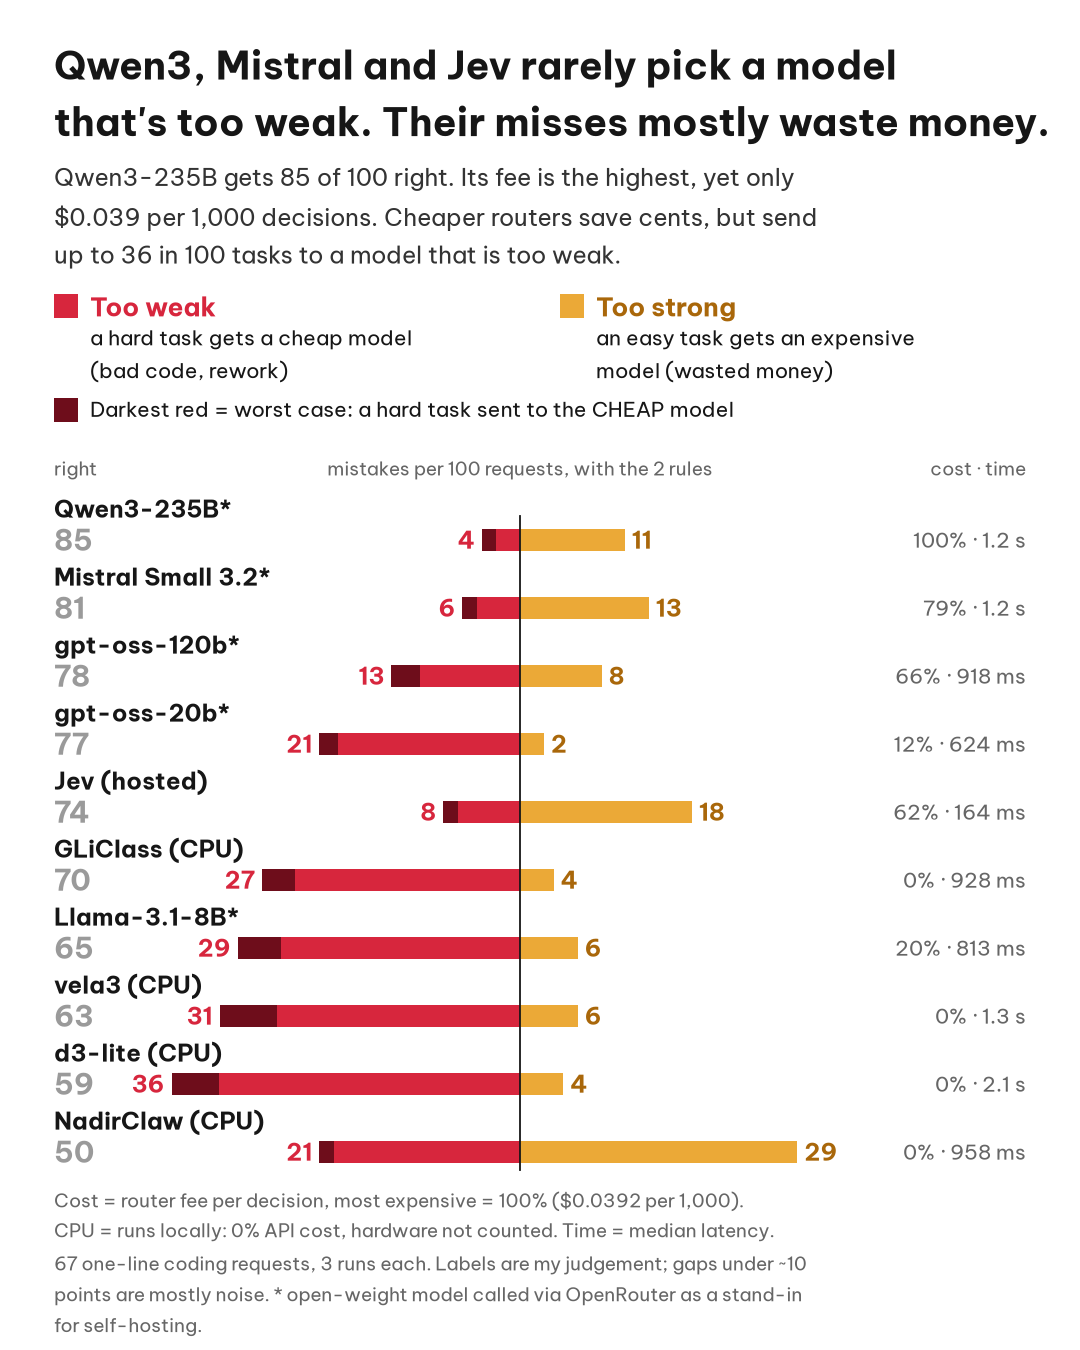
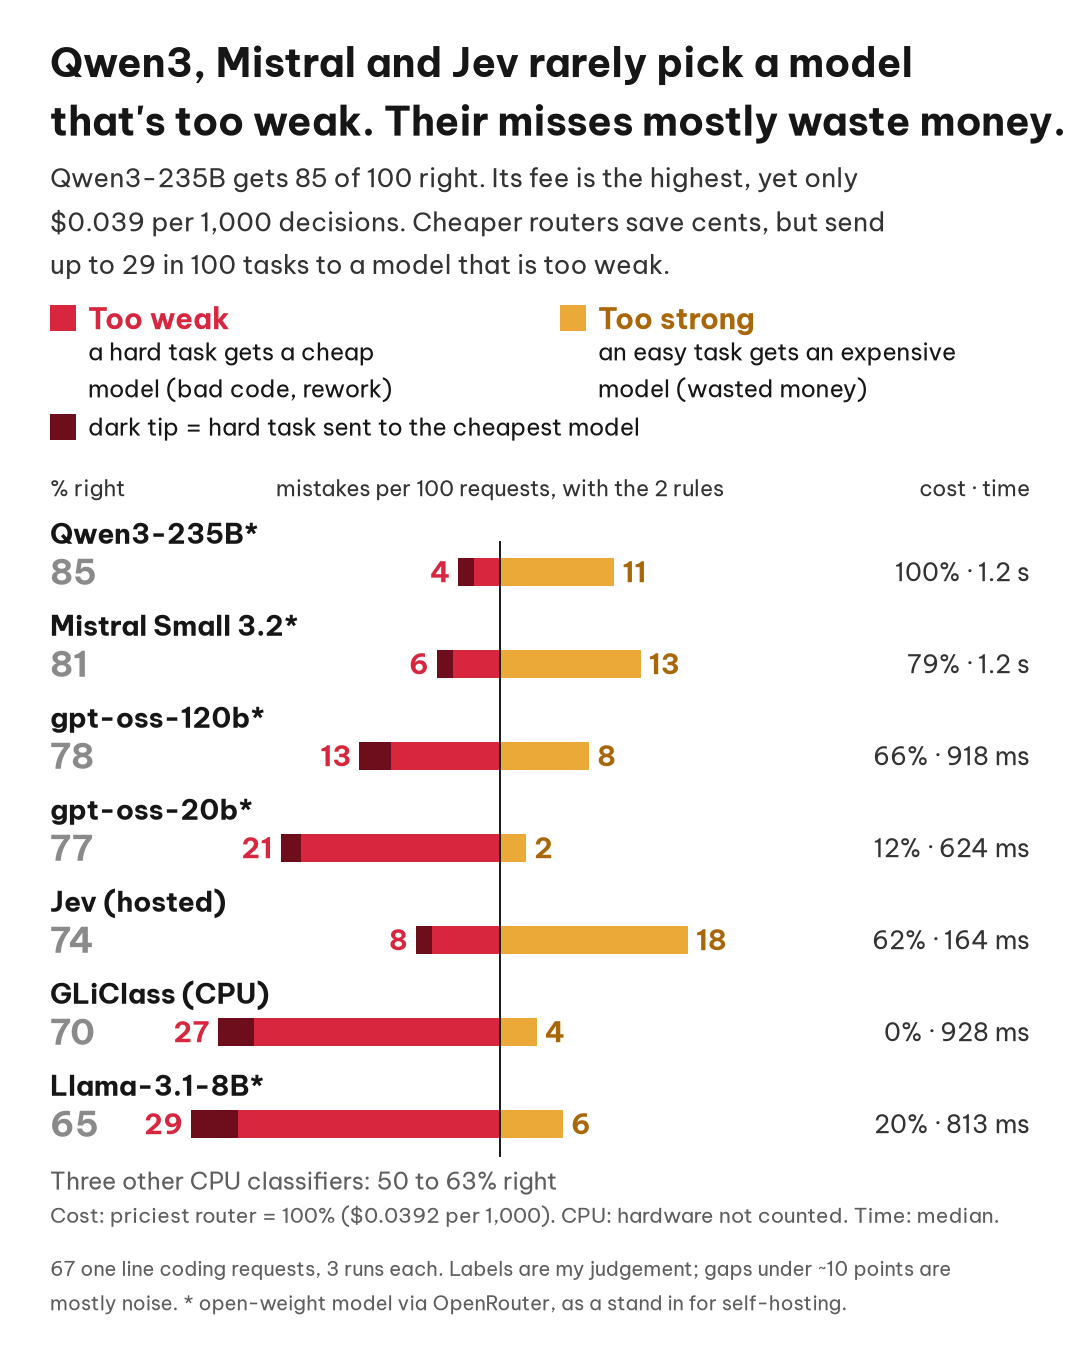
Charts: editor fixes (7 routers; errors chart bigger type, % right, dark-tip legend, 2-line footer; scatter portrait 1080x1350, no recommendation or green zone, dotted line = routers nobody beats, GLiClass note)

diff --git a/results_v3/chart_pareto.py b/results_v3/chart_pareto.py
@@ -1,6 +1,6 @@
-"""Router accuracy vs cost per 1,000 decisions, with David's two rules.
+"""Router accuracy vs cost per 1,000 decisions, with David's two rules (7 routers shown).
 Styled after Artificial Analysis' 'Index vs Cost per Task' scatter.
-Reads summary.csv next to this file; writes chart_pareto.png (1200x1000)."""
+Reads summary.csv next to this file; writes chart_pareto.png (1080x1350, portrait)."""
 import csv, os, math
 import matplotlib
 matplotlib.use("Agg")
@@ -40,85 +40,83 @@ for r in csv.DictReader(open(os.path.join(HERE, "summary.csv"))):
         weak=float(r["under_routing"]) * 100,      # sent to a weaker tier than needed
         danger=round(float(r["hard_to_cheap"]) * N_HARD * runs) / n * 100,
         cost=float(r["cost_per_1k_usd"]), lat=float(r["lat_p50_ms"])))
-mx = max(r["cost"] for r in rows)
+mx = max(r["cost"] for r in rows)   # most expensive router = 100%
 for r in rows:
     r["rel"] = r["cost"] / mx * 100
+SHOW = ["Qwen3-235B*", "Mistral Small 3.2*", "gpt-oss-120b*", "gpt-oss-20b*", "Jev (hosted)",
+        "GLiClass (CPU)", "Llama-3.1-8B*"]
+rows = [r for r in rows if r["name"] in SHOW]
 
-# Pareto front: nobody else is at least as cheap AND at least as accurate (and better on one)
-def dominated(a):
+# the dotted line: routers nobody else beats on both price and accuracy
+def beaten(a):
     return any(b is not a and b["cost"] <= a["cost"] and b["right"] >= a["right"]
                and (b["cost"] < a["cost"] or b["right"] > a["right"]) for b in rows)
-front = sorted([r for r in rows if not dominated(r)], key=lambda r: r["cost"])
+front = sorted([r for r in rows if not beaten(r)], key=lambda r: r["cost"])
 
 # x mapping: log10(cost) for API routers; CPU ($0) gets its own band at the far left
-XMIN, XMAX = math.log10(mx * 0.07), math.log10(mx * 2.1)
-BAND_L, BAND_R = XMIN - 0.42, XMIN - 0.12      # local band, then a visible break
+XMIN, XMAX = math.log10(mx * 0.08), math.log10(mx * 3.6)
+BAND_L, BAND_R = XMIN - 0.40, XMIN - 0.10      # local band, then a visible break
 CPU_X = (BAND_L + BAND_R) / 2
 def X(r):
     return CPU_X if r["cost"] == 0 else math.log10(r["cost"])
 
-W, H = 1200, 1000
+W, H = 1080, 1350
 fig = plt.figure(figsize=(W / 100, H / 100), dpi=100, facecolor="white")
-ax = fig.add_axes([0.085, 0.195, 0.865, 0.53])
-YMIN, YMAX = 45, 92
-ax.set_xlim(BAND_L - 0.03, XMAX); ax.set_ylim(YMIN, YMAX)
+ax = fig.add_axes([0.105, 0.205, 0.865, 0.49])
+YMIN, YMAX = 58, 91
+ax.set_xlim(BAND_L - 0.02, XMAX); ax.set_ylim(YMIN, YMAX)
 
-# sweet-spot quadrant: >= 75% right, <= half the top router's cost (incl. the local band)
-Q_ACC, Q_REL = 75, 50
-ax.add_patch(plt.Rectangle((BAND_L, YMIN), BAND_R - BAND_L, YMAX - YMIN, color="#EFEFEF", lw=0, zorder=0))
-ax.add_patch(plt.Rectangle((BAND_L - 0.03, Q_ACC), math.log10(mx * Q_REL / 100) - BAND_L + 0.03,
-                           YMAX - Q_ACC, color="#BFE6B3", alpha=0.6, lw=0, zorder=0.5))
-ax.text(BAND_R + 0.08, YMAX - 1.2, "Most attractive: ≥75% right, ≤50% of the cost",
-        fontsize=14, color="#2E7D32", fontweight="bold", va="top", zorder=1)
 # local band
-ax.text(CPU_X, YMAX - 1.8, "Runs locally\n$0 API\n(hardware\nnot counted)", fontsize=12,
-        color="#444444", ha="center", va="top", linespacing=1.1, zorder=1)
-# axis break marks
-for xb in (BAND_R + 0.02, BAND_R + 0.05):
-    ax.plot([xb - 0.012, xb + 0.012], [YMIN - 0.9, YMIN + 0.9], color=INK, lw=1.4, clip_on=False, zorder=5)
+ax.add_patch(plt.Rectangle((BAND_L, YMIN), BAND_R - BAND_L, YMAX - YMIN, color="#EFEFEF", lw=0, zorder=0))
+ax.text(CPU_X, YMAX - 1.0, "Runs\nlocally\n$0 API", fontsize=16, color="#444444", ha="center",
+        va="top", linespacing=1.15, zorder=1)
+for xb in (BAND_R + 0.02, BAND_R + 0.05):   # axis break marks
+    ax.plot([xb - 0.012, xb + 0.012], [YMIN - 0.6, YMIN + 0.6], color=INK, lw=1.5, clip_on=False, zorder=5)
 
 ticks_rel = [10, 25, 50, 100]
 ax.set_xticks([CPU_X] + [math.log10(mx * t / 100) for t in ticks_rel])
-ax.set_xticklabels(["$0"] + [f"${mx * t / 100:.3f}\n{t}%" for t in ticks_rel], fontsize=13.5)
-ax.set_yticks(range(50, 91, 10))
-ax.set_yticklabels([f"{v}%" for v in range(50, 91, 10)], fontsize=14)
+ax.set_xticklabels(["$0"] + [f"${mx * t / 100:.3f}\n{t}%" for t in ticks_rel], fontsize=17)
+ax.set_yticks(range(60, 91, 10))
+ax.set_yticklabels([f"{v}%" for v in range(60, 91, 10)], fontsize=18)
 ax.grid(axis="y", color=GRID, lw=1, zorder=0)
 for v in [math.log10(mx * t / 100) for t in ticks_rel]:
     ax.axvline(v, color=GRID, lw=1, zorder=0)
 ax.spines[["top", "right"]].set_visible(False)
 ax.spines["bottom"].set_color("#BBBBBB"); ax.spines["left"].set_color("#BBBBBB")
 ax.tick_params(colors=INK, length=0, pad=8)
-ax.set_xlabel("Router cost per 1,000 routing decisions (USD, log scale) · % of the most expensive",
-              fontsize=14.5, color=INK, labelpad=10)
-ax.set_ylabel("Routed right (accuracy)", fontsize=15, color=INK, labelpad=8)
+ax.set_xlabel("Router cost per 1,000 decisions (USD, log scale)\nand % of the most expensive router",
+              fontsize=17, color=INK, labelpad=10, linespacing=1.25)
+ax.set_ylabel("Routed right (accuracy)", fontsize=18, color=INK, labelpad=8)
 
-# Pareto line
-ax.plot([X(r) for r in front], [r["right"] for r in front], ls=(0, (1.2, 2.2)), lw=2.6,
+# dotted line
+ax.plot([X(r) for r in front], [r["right"] for r in front], ls=(0, (1.2, 2.4)), lw=3,
         color=INK, zorder=2, dash_capstyle="round")
 
-# markers: one plain dot per router, coloured by type
+# one plain dot per router, coloured by type
 for r in rows:
-    x, y = X(r), r["right"]
-    ax.scatter(x, y, s=130, color=TYPE_COL[r["kind"]], edgecolor="white", lw=1.5, zorder=4)
+    ax.scatter(X(r), r["right"], s=220, color=TYPE_COL[r["kind"]], edgecolor="white", lw=2, zorder=4)
 
-# labels (offsets in points)
-OFF = {"Qwen3-235B*": (14, 30, "left"), "Mistral Small 3.2*": (-26, 40, "right"),
-       "gpt-oss-120b*": (14, -20, "left"), "gpt-oss-20b*": (-12, 24, "right"),
-       "Jev (hosted)": (-16, -26, "right"), "Llama-3.1-8B*": (18, -14, "left"),
-       "GLiClass (CPU)": (16, -10, "left"), "vela3 (CPU)": (16, 4, "left"),
-       "d3-lite (CPU)": (16, -6, "left"), "NadirClaw (CPU)": (16, 0, "left")}
+# labels (offsets in points): name + % right, red too-weak figure underneath
+OFF = {"Qwen3-235B*": (10, 34, "left"), "Mistral Small 3.2*": (-30, 52, "right"),
+       "gpt-oss-120b*": (12, -26, "left"), "gpt-oss-20b*": (-10, 40, "center"),
+       "Jev (hosted)": (-16, -16, "right"), "Llama-3.1-8B*": (14, -12, "left"),
+       "GLiClass (CPU)": (14, -16, "left")}
 LEADER = {"Qwen3-235B*", "Mistral Small 3.2*"}
+LS = 24   # gap between name line and red line, points
 for r in rows:
     dx, dy, ha = OFF[r["name"]]
-    lbl = f"{r['name']}  {r['right']:.0f}%"
-    ax.annotate(lbl, (X(r), r["right"]), xytext=(dx, dy), textcoords="offset points",
-                ha=ha, va="center", fontsize=14.5, fontweight="bold", color=INK, zorder=6)
-    if r["name"] in LEADER:  # short leader line from dot to the label block
-        ax.annotate("", (X(r), r["right"]), xytext=(dx, dy - 26),
-                    textcoords="offset points",
-                    arrowprops=dict(arrowstyle="-", color="#888888", lw=1, shrinkA=0, shrinkB=5), zorder=5)
-    ax.annotate(f"{r['weak']:.0f}% too weak", (X(r), r["right"]), xytext=(dx, dy - 17),
-                textcoords="offset points", ha=ha, va="center", fontsize=12, color=DANGER, zorder=6)
+    ax.annotate(f"{r['name']}  {r['right']:.0f}%", (X(r), r["right"]), xytext=(dx, dy),
+                textcoords="offset points", ha=ha, va="center", fontsize=18, fontweight="bold",
+                color=INK, zorder=6)
+    ax.annotate(f"{r['weak']:.0f}% too weak", (X(r), r["right"]), xytext=(dx, dy - LS),
+                textcoords="offset points", ha=ha, va="center", fontsize=16, color=DANGER, zorder=6)
+    if r["name"] in LEADER:  # short leader line from the dot to its label block
+        ax.annotate("", (X(r), r["right"]), xytext=(dx, dy - LS - 10), textcoords="offset points",
+                    arrowprops=dict(arrowstyle="-", color="#888888", lw=1.2, shrinkA=0, shrinkB=7), zorder=5)
+
+# GLiClass note by the grey band
+ax.text(BAND_L + 0.03, 62.6, "GLiClass is on the line only\nbecause hardware isn't counted", fontsize=14.5,
+        color=MUTED, style="italic", linespacing=1.2, ha="left", va="top", zorder=6)
 
 # Jev latency callout
 jev = next(r for r in rows if r["kind"] == "hosted")
@@ -126,48 +124,44 @@ fastest = min(rows, key=lambda r: r["lat"])
 if fastest is jev:
     nxt = sorted(r["lat"] for r in rows)[1]
     ax.annotate(f"{jev['lat']:.0f} ms, fastest\n({nxt / jev['lat']:.0f}× quicker than the next)",
-                (X(jev), jev["right"]), xytext=(14, -150), textcoords="offset points",
-                fontsize=12.5, color=TYPE_COL["hosted"], ha="center", va="center",
-                arrowprops=dict(arrowstyle="-", color=TYPE_COL["hosted"], lw=1.2), zorder=6)
+                (X(jev), jev["right"]), xytext=(26, -92), textcoords="offset points",
+                fontsize=15.5, color=TYPE_COL["hosted"], ha="left", va="center", linespacing=1.2,
+                arrowprops=dict(arrowstyle="-", color=TYPE_COL["hosted"], lw=1.3, shrinkA=4, shrinkB=8), zorder=6)
 
-# ---- headline, subtitle, legend, footnote (figure coords) ----
-best = max(rows, key=lambda r: r["right"])
-sweet = [r for r in rows if r["right"] >= Q_ACC and r["rel"] <= Q_REL]
-s = sweet[0] if sweet else front[1]
-fig.text(0.035, 0.975, f"{s['name'].rstrip('*')} is the sweet spot: {s['right']:.0f}% right for "
-         f"{s['rel']:.0f}% of the cost.\nThe catch: it sends {s['weak']:.0f}% of tasks to a model too weak for them.",
-         fontsize=24, fontweight="bold", color=INK, va="top", linespacing=1.15)
-front_names = ", ".join(r["name"].rstrip("*").replace(" (CPU)", "") for r in front)
-fig.text(0.035, 0.872, f"Up and left is better. The dotted line links the routers nobody beats on both price\nand accuracy: {front_names}.\n"
-         "Paying more mostly buys fewer tasks sent to a model too weak for them (red figures).",
-         fontsize=15.5, color="#333333", va="top", linespacing=1.25)
-
-# legend row
-handles = [Line2D([], [], ls="", marker="o", ms=11, color=TYPE_COL[k], mec="white", label=TYPE_LBL[k])
+# ---- headline, subtitle, legend, footer (figure coords) ----
+fig.text(0.045, 0.972, "Paying more mostly buys fewer tasks\nsent to a model too weak for them.",
+         fontsize=31, fontweight="bold", color=INK, va="top", linespacing=1.15)
+fig.text(0.045, 0.868, "Each dot is a router. Higher = more coding tasks routed to the right\n"
+         "model. Further right = higher router fee. Red = share of tasks sent\n"
+         "to a model too weak for them.",
+         fontsize=18, color="#333333", va="top", linespacing=1.3)
+handles = [Line2D([], [], ls="", marker="o", ms=14, color=TYPE_COL[k], mec="white", label=TYPE_LBL[k])
            for k in ("hosted", "openrouter", "cpu")]
-handles += [plt.Rectangle((0, 0), 1, 1, color="#D6F0CF", label="Most attractive"),
-            Line2D([], [], ls=(0, (1.2, 2.2)), lw=2.6, color=INK, label="Pareto line")]
-fig.legend(handles=handles, loc="upper left", bbox_to_anchor=(0.03, 0.768), ncol=5, frameon=False,
-           fontsize=13.5, handletextpad=0.4, columnspacing=1.3)
+fig.legend(handles=handles, loc="upper left", bbox_to_anchor=(0.035, 0.778), ncol=3, frameon=False,
+           fontsize=16.5, handletextpad=0.3, columnspacing=1.2)
+dl = fig.add_axes([0.047, 0.716, 0.9, 0.022]); dl.axis("off"); dl.set_xlim(0, 1); dl.set_ylim(0, 1)
+dl.plot([0.0, 0.05], [0.5, 0.5], ls=(0, (1.2, 2.4)), lw=3, color=INK, dash_capstyle="round")
+dl.text(0.065, 0.5, "routers nobody beats on both price and accuracy", fontsize=16.5, va="center", color=INK)
 
-fig.text(0.035, 0.022,
-         f"67 one-line coding requests, 3 runs each, with my 2 routing rules. Labels are my judgement; gaps under ~10 points are\n"
-         f"mostly noise. * open-weight model called via OpenRouter as a stand-in for self-hosting. 100% = ${mx:.4f} per 1,000 decisions.",
-         fontsize=12, color=MUTED, va="bottom", linespacing=1.35)
+fig.text(0.045, 0.018,
+         "67 one line coding requests, 3 runs each, my 2 rules. Labels are my judgement; gaps under ~10 points\n"
+         f"are mostly noise. * open-weight, via OpenRouter as a stand in for self-hosting. 100% = ${mx:.4f} per 1,000.",
+         fontsize=13.5, color=MUTED, va="bottom", linespacing=1.35)
 
 fig.canvas.draw()
 _r = fig.canvas.get_renderer()
-for _t in fig.texts + ax.texts:
-    _b = _t.get_window_extent(_r)
+texts = ax.texts + fig.texts + dl.texts
+for _t in texts:
+    _b = matplotlib.text.Text.get_window_extent(_t, _r)
     if _b.x0 < 0 or _b.x1 > W or _b.y0 < 0 or _b.y1 > H:
         print("CLIPPED:", _t.get_text()[:40], _b)
-_bb = [(t.get_text()[:25], matplotlib.text.Text.get_window_extent(t, _r)) for t in ax.texts + fig.texts]  # text only, no arrows
+_bb = [(t.get_text()[:25], matplotlib.text.Text.get_window_extent(t, _r)) for t in texts if t.get_text()]
 for i in range(len(_bb)):
     for j in range(i + 1, len(_bb)):
         if _bb[i][1].overlaps(_bb[j][1]):
             print("OVERLAP:", _bb[i][0], "|", _bb[j][0])
 fig.savefig(os.path.join(HERE, "chart_pareto.png"), dpi=100, facecolor="white")
-print("Pareto:", [r["name"] for r in front])
+print("On the dotted line:", [r["name"] for r in front])
 for r in sorted(rows, key=lambda r: -r["right"]):
     print(f"{r['name']:20s} acc {r['right']:.1f} weak {r['weak']:.1f} danger {r['danger']:.1f} "
           f"cost ${r['cost']:.4f} ({r['rel']:.0f}%) lat {r['lat']:.0f}ms")

diff --git a/results_v3/chart_errors.py b/results_v3/chart_errors.py
@@ -1,4 +1,4 @@
-"""Router mistakes per 100 requests, with David's two rules.
+"""Router mistakes per 100 requests, with David's two rules (7 routers shown).
 Reads summary.csv next to this file; writes chart_errors.png (1080x1350)."""
 import csv, os
 import matplotlib
@@ -17,7 +17,7 @@ plt.rcParams["font.family"] = ["Be Vietnam Pro", "DejaVu Sans"]
 N_HARD = 22  # frontier-labelled queries (REPORT.md: 23 cheap / 22 mid / 22 frontier)
 DANGER, DANGER_DARK = "#D7263D", "#6E0D1B"
 WASTE, WASTE_TXT = "#EBA937", "#A9670A"
-GREY, INK, MUTED = "#9A9A9A", "#161616", "#666666"
+GREY, INK, MUTED, COLTXT = "#8A8A8A", "#161616", "#5E5E5E", "#333333"
 
 NAMES = {"Jev": "Jev (hosted)", "Qwen3": "Qwen3-235B*", "Mistral": "Mistral Small 3.2*",
          "gpt-oss-120b": "gpt-oss-120b*", "gpt-oss-20b": "gpt-oss-20b*", "Llama": "Llama-3.1-8B*",
@@ -37,16 +37,20 @@ for r in csv.DictReader(open(os.path.join(HERE, "summary.csv"))):
         # hard_to_cheap is a share of hard decisions -> count -> per 100 requests
         danger=round(float(r["hard_to_cheap"]) * N_HARD * runs) / n * 100,
         cost=float(r["cost_per_1k_usd"]), lat=float(r["lat_p50_ms"])))
-mx = max(r["cost"] for r in rows)
+mx = max(r["cost"] for r in rows)   # most expensive router = 100% (taken over all 10)
 for r in rows:
     r["rel"] = r["cost"] / mx * 100
-rows.sort(key=lambda r: (-r["right"], r["weak"]))
+SHOW = ["Qwen3-235B*", "Mistral Small 3.2*", "gpt-oss-120b*", "gpt-oss-20b*", "Jev (hosted)",
+        "GLiClass (CPU)", "Llama-3.1-8B*"]
+hidden = [r for r in rows if r["name"] not in SHOW]          # vela3, d3-lite, NadirClaw
+rows = sorted([r for r in rows if r["name"] in SHOW], key=lambda r: SHOW.index(r["name"]))
+max_weak = max(r["weak"] for r in rows)
 
 W, H = 1080, 1350
 fig = plt.figure(figsize=(W / 100, H / 100), dpi=100, facecolor="white")
 ax = fig.add_axes([0, 0, 1, 1]); ax.set_xlim(0, W); ax.set_ylim(H, 0); ax.axis("off")
 # everything below is in pixels, y grows downwards
-LM, RM = 54, W - 54
+LM, RM = 50, W - 50
 
 def t(x, y, s, **kw):
     kw.setdefault("va", "top"); kw.setdefault("color", INK)
@@ -56,55 +60,56 @@ def box(x, y, w, h, col):
     ax.add_patch(plt.Rectangle((x, y), w, h, color=col, lw=0))
 
 # headline + subhead
-t(LM, 40, "Qwen3, Mistral and Jev rarely pick a model\nthat's too weak. Their misses mostly waste money.",
-  fontsize=28, fontweight="bold", linespacing=1.15)
-t(LM, 160, f"Qwen3-235B gets 85 of 100 right. Its fee is the highest, yet only\n"
+t(LM, 36, "Qwen3, Mistral and Jev rarely pick a model\nthat's too weak. Their misses mostly waste money.",
+  fontsize=29, fontweight="bold", linespacing=1.15)
+t(LM, 158, f"Qwen3-235B gets 85 of 100 right. Its fee is the highest, yet only\n"
            f"${mx:.3f} per 1,000 decisions. Cheaper routers save cents, but send\n"
-           "up to 36 in 100 tasks to a model that is too weak.",
-  fontsize=17, color="#333333", linespacing=1.3)
+           f"up to {max_weak:.0f} in 100 tasks to a model that is too weak.",
+  fontsize=19, color="#333333", linespacing=1.3)
 
 # legend in plain words
 def key(x, y, col, title, tcol, body):
-    box(x, y + 4, 24, 24, col)
-    t(x + 36, y, title, fontsize=19, fontweight="bold", color=tcol)
-    t(x + 36, y + 34, body, fontsize=15, linespacing=1.2)
-key(LM, 290, DANGER, "Too weak", DANGER, "a hard task gets a cheap model\n(bad code, rework)")
-key(560, 290, WASTE, "Too strong", WASTE_TXT, "an easy task gets an expensive\nmodel (wasted money)")
-box(LM, 398, 24, 24, DANGER_DARK)
-t(LM + 36, 396, "Darkest red = worst case: a hard task sent to the CHEAP model", fontsize=15)
+    box(x, y + 5, 26, 26, col)
+    t(x + 38, y, title, fontsize=21, fontweight="bold", color=tcol)
+    t(x + 38, y + 36, body, fontsize=17, linespacing=1.2)
+key(LM, 300, DANGER, "Too weak", DANGER, "a hard task gets a cheap\nmodel (bad code, rework)")
+key(560, 300, WASTE, "Too strong", WASTE_TXT, "an easy task gets an expensive\nmodel (wasted money)")
+box(LM, 414, 26, 26, DANGER_DARK)
+t(LM + 38, 412, "dark tip = hard task sent to the cheapest model", fontsize=17)
 
 # scale: units (per 100 requests) -> px around a centre line
-CX, U = 520, 9.6
+CX, U = 500, 10.5
 X = lambda v: CX + v * U
-HDR = 456
-t(LM, HDR, "right", fontsize=14, color=MUTED)
-t(CX, HDR, "mistakes per 100 requests, with the 2 rules", fontsize=14, color=MUTED, ha="center")
-t(RM, HDR, "cost · time", fontsize=14, color=MUTED, ha="right")
+HDR = 474
+t(LM, HDR, "% right", fontsize=16, color=COLTXT)
+t(CX, HDR, "mistakes per 100 requests, with the 2 rules", fontsize=16, color=COLTXT, ha="center")
+t(RM, HDR, "cost · time", fontsize=16, color=COLTXT, ha="right")
 
-TOP, ROW, BH = 494, 68, 22
+TOP, ROW, BH = 516, 92, 28
 for i, r in enumerate(rows):
     y0 = TOP + i * ROW                # name line top
-    yb = y0 + 46                      # bar centre
-    t(LM, y0, r["name"], fontsize=17, fontweight="bold")
-    t(LM, yb, f"{r['right']:.0f}", fontsize=21, fontweight="bold", color=GREY, va="center")
+    yb = y0 + 56                      # bar centre
+    t(LM, y0, r["name"], fontsize=20, fontweight="bold")
+    t(LM, yb, f"{r['right']:.0f}", fontsize=25, fontweight="bold", color=GREY, va="center")
     cost_lbl = "0%" if r["cost"] == 0 else f"{r['rel']:.0f}%"
     lat_lbl = f"{r['lat']/1000:.1f} s" if r["lat"] >= 1000 else f"{r['lat']:.0f} ms"
-    t(RM, yb, f"{cost_lbl} · {lat_lbl}", fontsize=15, color=MUTED, va="center", ha="right")
+    t(RM, yb, f"{cost_lbl} · {lat_lbl}", fontsize=18, color=COLTXT, va="center", ha="right")
     box(X(-r["weak"]), yb - BH / 2, r["weak"] * U, BH, DANGER)
     box(X(-r["weak"]), yb - BH / 2, r["danger"] * U, BH, DANGER_DARK)
-    t(X(-r["weak"]) - 7, yb, f"{r['weak']:.0f}", fontsize=17, fontweight="bold", color=DANGER, va="center", ha="right")
+    t(X(-r["weak"]) - 8, yb, f"{r['weak']:.0f}", fontsize=20, fontweight="bold", color=DANGER, va="center", ha="right")
     box(CX, yb - BH / 2, r["strong"] * U, BH, WASTE)
-    t(X(r["strong"]) + 7, yb, f"{r['strong']:.0f}", fontsize=17, fontweight="bold", color=WASTE_TXT, va="center")
-ax.plot([CX, CX], [TOP + 22, TOP + ROW * len(rows) - 4], color=INK, lw=1.3)
+    t(X(r["strong"]) + 8, yb, f"{r['strong']:.0f}", fontsize=20, fontweight="bold", color=WASTE_TXT, va="center")
+ax.plot([CX, CX], [TOP + 26, TOP + ROW * len(rows) - 4], color=INK, lw=1.4)
 
-# notes + footer
-fy = TOP + ROW * len(rows) + 12
-t(LM, fy, f"Cost = router fee per decision, most expensive = 100% (${mx:.4f} per 1,000).\n"
-          "CPU = runs locally: 0% API cost, hardware not counted. Time = median latency.",
-  fontsize=13.5, color=MUTED, linespacing=1.3)
-t(LM, fy + 64, "67 one-line coding requests, 3 runs each. Labels are my judgement; gaps under ~10\n"
-               "points are mostly noise. * open-weight model called via OpenRouter as a stand-in\n"
-               "for self-hosting.", fontsize=13.5, color=MUTED, linespacing=1.3)
+# hidden routers + notes + footer
+fy = TOP + ROW * len(rows) + 6
+lo, hi = min(r["right"] for r in hidden), max(r["right"] for r in hidden)
+t(LM, fy, f"Three other CPU classifiers: {lo:.0f} to {hi:.0f}% right", fontsize=17, color=MUTED)
+t(LM, fy + 36, f"Cost: priciest router = 100% (${mx:.4f} per 1,000). CPU: hardware not counted. Time: median.",
+  fontsize=15, color=MUTED)
+t(LM, H - 28, "67 one line coding requests, 3 runs each. Labels are my judgement; gaps under ~10 points are\n"
+              "mostly noise. * open-weight model via OpenRouter, as a stand in for self-hosting.",
+  fontsize=14.5, color=MUTED, linespacing=1.35, va="bottom")
 
 fig.canvas.draw()
 _r = fig.canvas.get_renderer()
